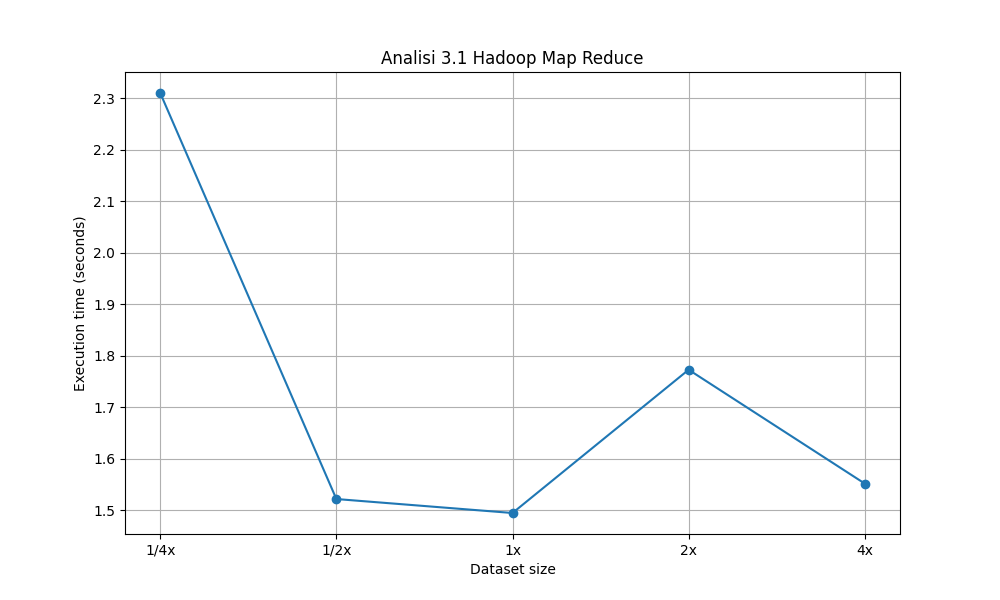
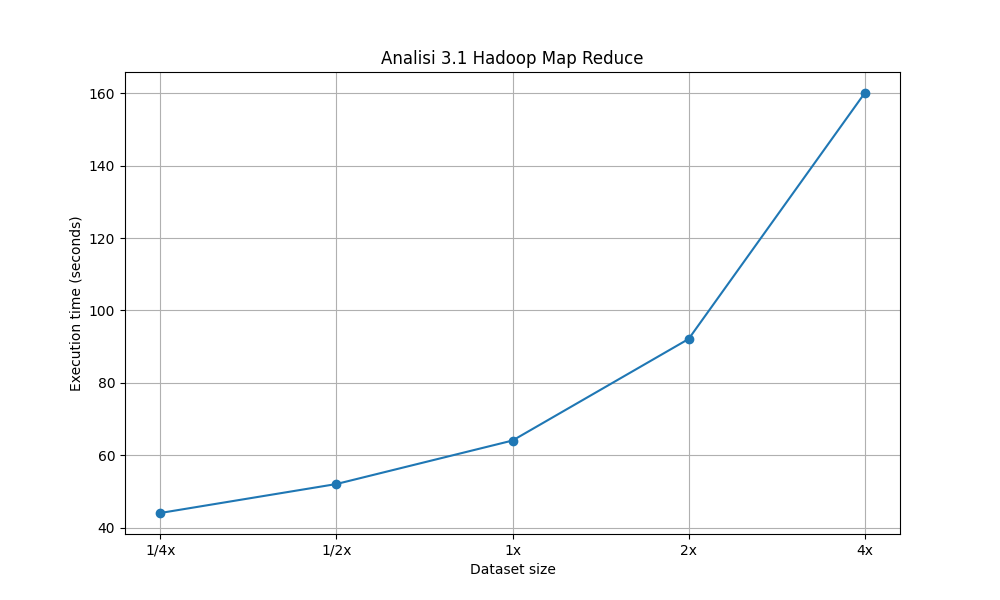
speriamo funzioni mo cristo

diff --git a/analysis_3_1_cluster.py b/analysis_3_1_cluster.py
@@ -26,15 +26,48 @@ def s3_exists(bucket, key):
         raise
 
 
+# ----------------------------
+# DELETE S3 OUTPUT (NEW)
+# ----------------------------
+
+def delete_s3_prefix(prefix):
+
+    paginator = s3.get_paginator("list_objects_v2")
+
+    objects_to_delete = []
+
+    for page in paginator.paginate(Bucket=BUCKET, Prefix=prefix):
+
+        if "Contents" not in page:
+            continue
+
+        for obj in page["Contents"]:
+            objects_to_delete.append({"Key": obj["Key"]})
+
+    if not objects_to_delete:
+        print(f"NO OBJECTS in {prefix}")
+        return
+
+    print(f"DELETING {len(objects_to_delete)} OBJECTS from {prefix}")
+
+    for i in range(0, len(objects_to_delete), 1000):
+
+        batch = objects_to_delete[i:i+1000]
+
+        s3.delete_objects(
+            Bucket=BUCKET,
+            Delete={"Objects": batch}
+        )
+
+
 # HADOOP output log
 log_path = "output/cluster/hadoop_3_1/hadoop_logs.txt"
 
-# elimina se esiste
 if os.path.exists(log_path):
     os.remove(log_path)
 
-# ricrea il file (vuoto)
 os.makedirs(os.path.dirname(log_path), exist_ok=True)
+
 
 # ----------------------------
 # UPLOAD FUNCTIONS
@@ -46,9 +79,11 @@ def upload_mapper_reducer(mapper_file, reducer_file):
     reducer_key = f"{CLUSTER}/code/analisi_3_1/reducer.py"
 
     if not s3_exists(BUCKET, mapper_key):
+        print("UPLOADING MAPPER")
         s3.upload_file(mapper_file, BUCKET, mapper_key)
 
     if not s3_exists(BUCKET, reducer_key):
+        print("UPLOADING REDUCER")
         s3.upload_file(reducer_file, BUCKET, reducer_key)
 
     return mapper_key, reducer_key
@@ -59,6 +94,7 @@ def upload_input(input_file):
     input_key = f"{CLUSTER}/input/{os.path.basename(input_file)}"
 
     if not s3_exists(BUCKET, input_key):
+        print(f"UPLOADING {input_file}")
         s3.upload_file(input_file, BUCKET, input_key)
 
     return input_key
@@ -83,32 +119,36 @@ def upload_project():
 
 
 # ----------------------------
-# LOGS EMR (ROBUST VERSION)
+# LOGS EMR
 # ----------------------------
 
 def get_logs(step_id):
 
-    stdout, stderr = "", ""
+    stdout = ""
+    stderr = ""
 
-    prefix = f"emr-logs/{CLUSTER}/"
+    base_prefix = f"emr-logs/{CLUSTER}/steps/{step_id}/"
 
-    response = s3.list_objects_v2(Bucket=BUCKET, Prefix=prefix)
+    for file_name in ["stdout", "stderr"]:
 
-    for obj in response.get("Contents", []):
-
-        key = obj["Key"]
+        key = f"{base_prefix}{file_name}.gz"
 
         try:
             file_obj = s3.get_object(Bucket=BUCKET, Key=key)
-            content = gzip.decompress(file_obj["Body"].read()).decode("utf-8")
+            raw = file_obj["Body"].read()
 
-            if "stdout" in key:
+            try:
+                content = gzip.decompress(raw).decode("utf-8")
+            except:
+                content = raw.decode("utf-8")
+
+            if file_name == "stdout":
                 stdout = content
-
-            if "stderr" in key:
+            else:
                 stderr = content
 
         except Exception:
+            # file potrebbe non esistere
             continue
 
     return stdout, stderr
@@ -125,37 +165,49 @@ def analyze_with_hadoop(inputs, mapper_key, reducer_key, log_output_local_path):
 
     for name, input_key in inputs.items():
 
-        output_key = f"{CLUSTER}/output/{name}/job_3_1"
+        output_key = f"{CLUSTER}/output/{name}"
 
-        start_time = time.time()
 
-        # RUN JOB
-        step_id = cluster_executor(
+        print(f"\n=== START JOB: {name} ===")
+
+        step_id, execution_time = cluster_executor(
             CLUSTER,
             BUCKET,
+            name,
             input_key,
             output_key,
             mapper_key,
-            reducer_key
+            reducer_key,
+            results,
+            execution_time
         )
 
         # -------------------------
-        # READ OUTPUT
+        # READ OUTPUT (PREVIEW)
         # -------------------------
         response = s3.list_objects_v2(
             Bucket=BUCKET,
             Prefix=output_key
         )
 
-        output_data = ""
+        output_data = []
 
         for obj in response.get("Contents", []):
             if "part-" in obj["Key"]:
-                file_obj = s3.get_object(Bucket=BUCKET, Key=obj["Key"])
-                output_data += file_obj["Body"].read().decode("utf-8")
 
-        end_time = time.time()
-        execution_time[name] = end_time - start_time
+                file_obj = s3.get_object(
+                    Bucket=BUCKET,
+                    Key=obj["Key"]
+                )
+
+                content = file_obj["Body"].read().decode("utf-8")
+
+                output_data.extend(content.splitlines())
+
+                if len(output_data) >= 10:
+                    break
+
+        output_data = output_data[:10]
 
         # -------------------------
         # LOGS + METRICS
@@ -166,7 +218,7 @@ def analyze_with_hadoop(inputs, mapper_key, reducer_key, log_output_local_path):
         metrics = parse_hadoop_metrics(full_log)
 
         save_log(
-            output_data,
+            "\n".join(output_data),
             execution_time[name],
             metrics,
             log_output_local_path
@@ -184,6 +236,9 @@ def analyze_with_hadoop(inputs, mapper_key, reducer_key, log_output_local_path):
 def analyze():
 
     mapper_key, reducer_key, inputs = upload_project()
+
+    # CLEAN OLD OUTPUT
+    delete_s3_prefix(f"{CLUSTER}/output/")
 
     results, execution_time = analyze_with_hadoop(
         inputs,

diff --git a/hadoop_cluster.py b/hadoop_cluster.py
@@ -1,42 +1,70 @@
 import boto3
+import time 
 
 emr = boto3.client("emr")
 
 
-def cluster_executor(cluster_id, bucket, input_key, output_key, mapper_key, reducer_key):
+def cluster_executor(cluster_id, bucket, name, input_key, output_key, mapper_key, reducer_key, results, execution_time):
 
     response = emr.add_job_flow_steps(
-        JobFlowId=cluster_id,
-        Steps=[
-            {
-                "Name": "MapReduce Job",
-                "ActionOnFailure": "CONTINUE",
-                "HadoopJarStep": {
-                    "Jar": "command-runner.jar",
-                    "Args": [
-                        "hadoop-streaming",
-
-                        "-D",
-                        "mapreduce.job.reduces=1",
-
-                        "-files",
-                        f"s3://{bucket}/{mapper_key},s3://{bucket}/{reducer_key}",
-
-                        "-mapper",
-                        "python3 mapper.py",
-
-                        "-reducer",
-                        "python3 reducer.py",
-
-                        "-input",
-                        f"s3://{bucket}/{input_key}",
-
-                        "-output",
-                        f"s3://{bucket}/{output_key}"
-                    ]
+            JobFlowId=cluster_id,
+            Steps=[
+                {
+                    "Name": f"Hadoop_{name}",
+                    "ActionOnFailure": "CONTINUE",
+                    "HadoopJarStep": {
+                        "Jar": "command-runner.jar",
+                        "Args": [
+                            "hadoop-streaming",
+                             "-D",
+                            "mapreduce.job.reduces=1",
+                            "-files",
+                            f"s3://{bucket}/{mapper_key},s3://{bucket}/{reducer_key}",
+                            "-mapper",
+                            "python3 mapper.py",
+                            "-reducer",
+                            "python3 reducer.py",
+                            "-input",
+                            f"s3://{bucket}/{input_key}",
+                            "-output",
+                            f"s3://{bucket}/{output_key}"
+                        ]
+                    }
                 }
-            }
-        ]
-    )
+            ]
+        )
 
-    return response
+    step_id = response["StepIds"][0]
+
+    print("STEP ID:", step_id)
+
+    # WAIT JOB
+    while True:
+
+        step = emr.describe_step(
+            ClusterId=cluster_id,
+            StepId=step_id
+        )
+
+        state = step["Step"]["Status"]["State"]
+
+        print(f"STATUS: {state}")
+
+        if state in ["COMPLETED", "FAILED", "CANCELLED", "INTERRUPTED"]:
+            break
+
+        time.sleep(20)
+
+    if state == "COMPLETED":
+        print(f"JOB {name} COMPLETED")
+        results[name] = output_key
+    else:
+        print(f"JOB {name} FAILED")
+
+
+    start = step["Step"]["Status"]["Timeline"]["StartDateTime"]
+    end = step["Step"]["Status"]["Timeline"]["EndDateTime"]
+
+    execution_time[name] = (end - start).total_seconds()
+
+    return results, execution_time
